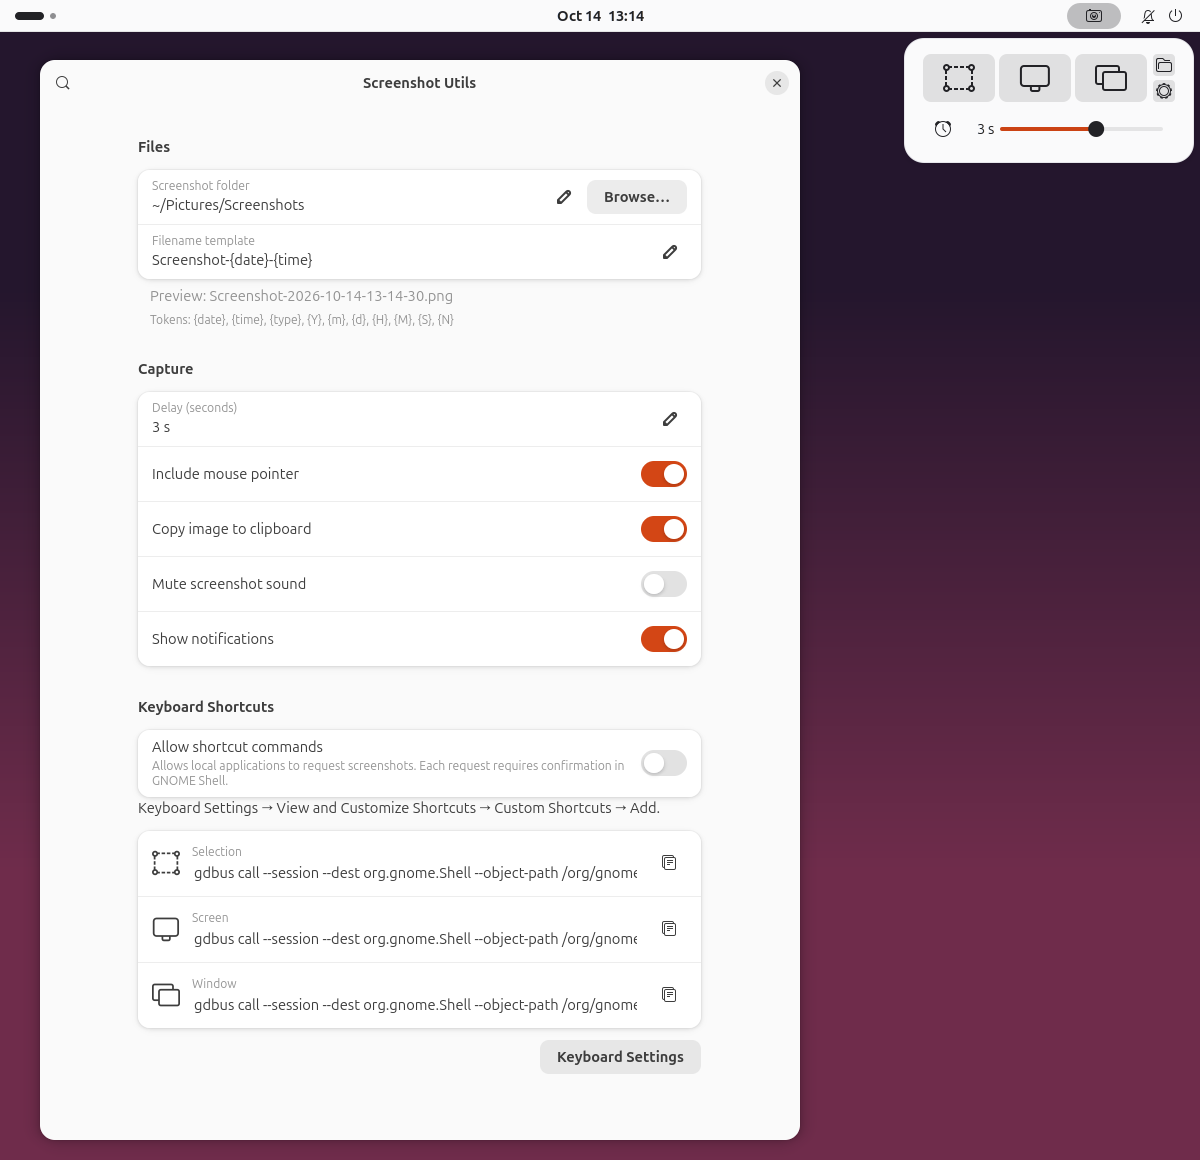
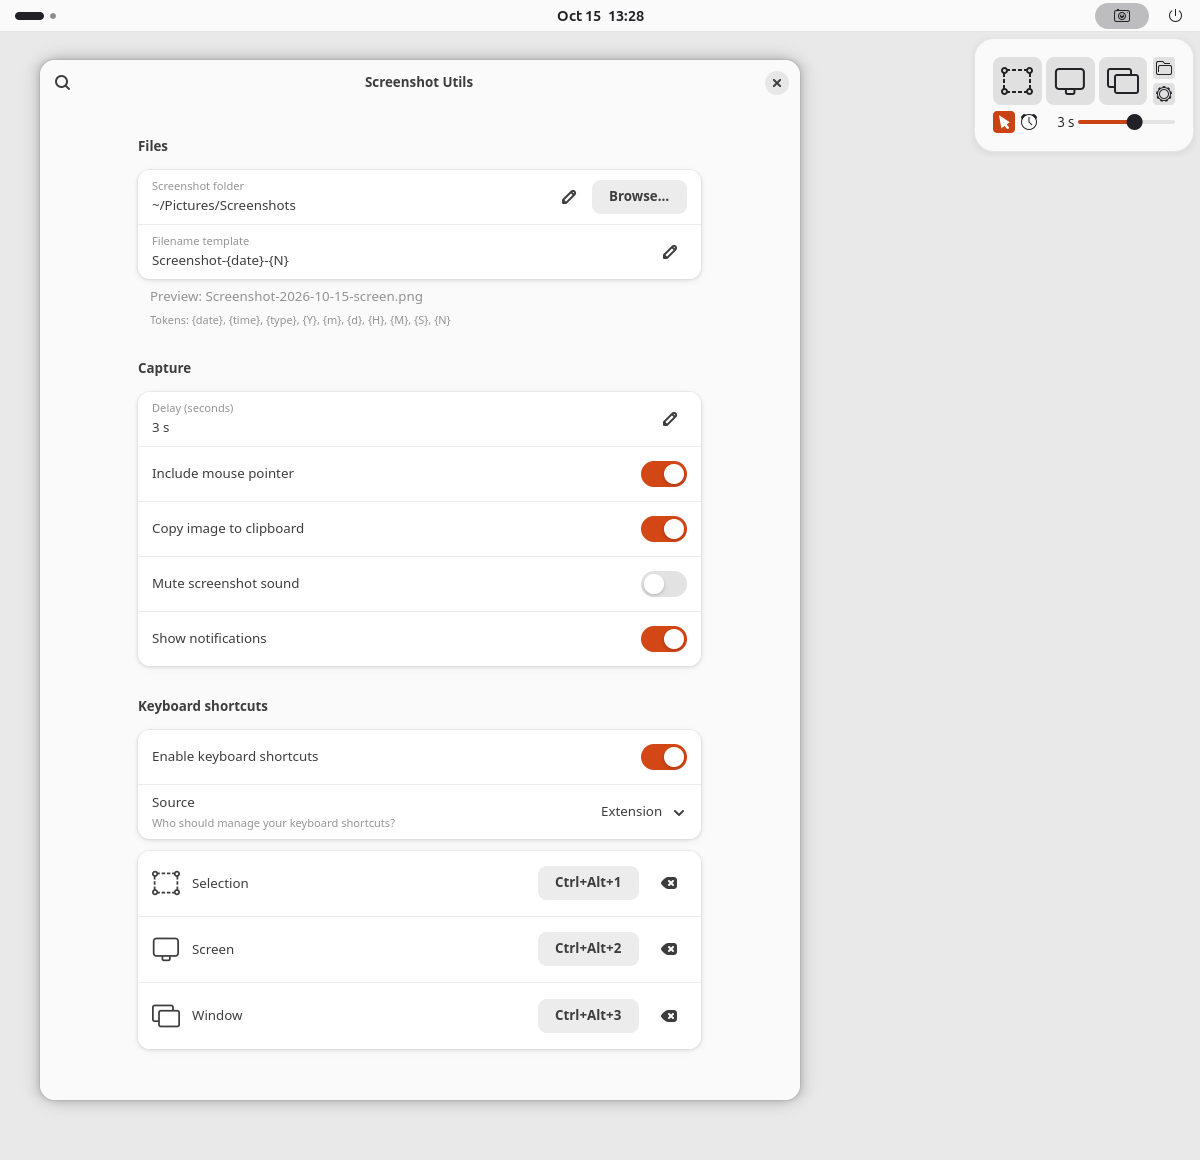
Show current light and dark overviews in README

diff --git a/scripts/pack.js b/scripts/pack.js
@@ -49,7 +49,7 @@ async function pack() {
         for (const target of ['modern', 'legacy']) {
             const directory = resolve(stage, target);
             await mkdir(directory);
-            for (const source of ['schemas', 'LICENSE', 'README.md'])
+            for (const source of ['schemas', 'assets', 'LICENSE', 'README.md'])
                 await cp(resolve(root, source), resolve(directory, source), {recursive: true});
             const targetMetadata = {...metadata, 'shell-version': target === 'legacy' ? ['42', '43', '44'] : metadata['shell-version']};
             await writeFile(resolve(directory, 'metadata.json'), `${JSON.stringify(targetMetadata, null, 2)}\n`);
@@ -67,7 +67,7 @@ async function pack() {
             await mkdir(targetOutput, {recursive: true});
             const extras = target === 'modern' ? sources.slice(2) : [];
             execFileSync('gnome-extensions', ['pack', '--force', ...extras.map(source => `--extra-source=${source}`),
-                '--extra-source=LICENSE', '--extra-source=README.md', `--out-dir=${targetOutput}`, directory], {stdio: 'inherit'});
+                '--extra-source=assets', '--extra-source=LICENSE', '--extra-source=README.md', `--out-dir=${targetOutput}`, directory], {stdio: 'inherit'});
             if (target === 'legacy') {
                 // Older Shell versions need compiled schemas included in the package.
                 execFileSync('glib-compile-schemas', ['--strict', resolve(directory, 'schemas')]);

diff --git a/tests/packages.js b/tests/packages.js
@@ -6,10 +6,17 @@ import vm from 'node:vm';
 // Run separately after packing; ordinary unit tests need no GNOME tools.
 const metadata = JSON.parse(readFileSync('metadata.json', 'utf8'));
 const schema = readFileSync('schemas/org.gnome.shell.extensions.screenshot-utils.gschema.xml', 'utf8');
+const readme = readFileSync('README.md', 'utf8');
+const readmeImages = [...new Set([...readme.matchAll(/(?:src|srcset)="(assets\/[^"]+)"/g)]
+    .map(match => match[1]))];
 const supportedVersions = [];
 for (const target of ['legacy', 'modern']) {
     const archive = `dist/${target}/${metadata.uuid}.shell-extension.zip`;
     const contents = name => execFileSync('unzip', ['-p', archive, name], {encoding: 'utf8'});
+    assert.equal(contents('README.md'), readme);
+    for (const image of readmeImages)
+        assert.deepEqual(execFileSync('unzip', ['-p', archive, image]), readFileSync(image),
+            `Packaged README image must match ${image}`);
     const actual = JSON.parse(contents('metadata.json'));
     assert.deepEqual(actual, {...metadata, 'shell-version': target === 'legacy' ? ['42', '43', '44'] : metadata['shell-version']});
     supportedVersions.push(...actual['shell-version']);

diff --git a/README.md b/README.md
@@ -2,7 +2,11 @@
 
 Native screenshots for GNOME Shell 42-51 on Wayland, including Ubuntu 22.04/24.04/26.04.
 
-![Screenshot Utils capture menu and preferences](https://raw.githubusercontent.com/fhaefele/screenshot-utils/main/assets/screenshot-utils.png)
+<picture>
+  <source media="(prefers-color-scheme: dark)" srcset="assets/screenshot-utils-dark.png">
+  <source media="(prefers-color-scheme: light)" srcset="assets/screenshot-utils.png">
+  <img alt="Screenshot Utils capture menu and preferences" src="assets/screenshot-utils.png">
+</picture>
 
 - Selection, Screen and Window capture. Release a selection or choose a window from the thumbnail dialog to capture after the chosen delay. Escape/right-click cancels; a selection click without dragging also cancels.
 - Stepped delay: 0-30 seconds. Exact seconds, save folder, filenames, mouse pointer, clipboard, sound and notifications in Preferences. Sound mute also applies to GNOME's native screenshots.
